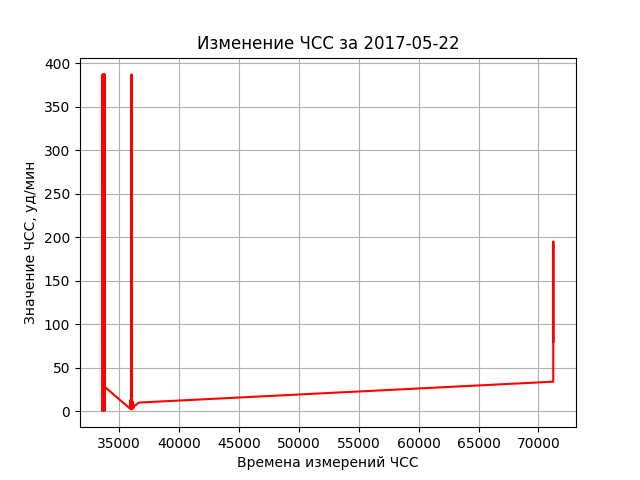
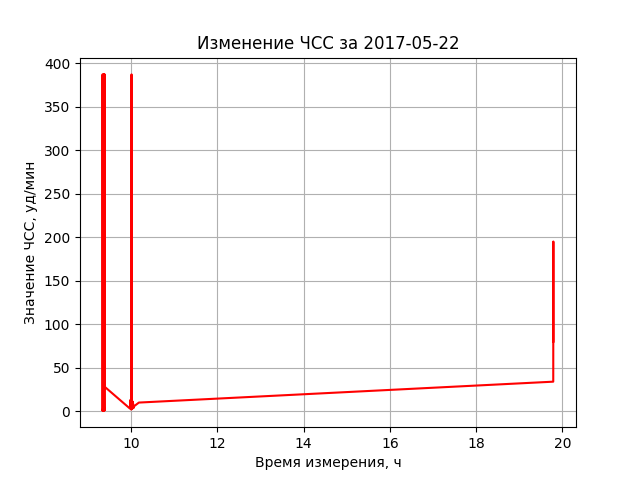
can save daily hr plot

diff --git a/DataB.py b/DataB.py
@@ -1,53 +1,98 @@
 import pymysql
 import datetime
+import time
+import matplotlib.pyplot as plt
+import os
 
 class DataB:
 
-    def __init__(self):
-        self.connection = pymysql.connect(host = "173.230.151.37", port = 3306,  user = "root", passwd = "BMT4Ever", database = "mydb")
-        self.cursor = self.connection.cursor()
+    def __init__(self, host, port, user, pswd, db):
+        self.host = host
+        self.port = port
+        self.user = user
+        self.pswd = pswd
+        self.db = db
+        self.connection = None
+        pass
 
+    def connect_to_db(self):
+        try:
+            self.connection = pymysql.connect(host = self.host, port = self.port, user = self.user, passwd = self.pswd, db = self.db)
+            self.cursor = self.connection.cursor()
+        except pymysql.Error as e:
+            raise e
 
     def select_average_hr(self):
         # получаем среднее сердцебиение
         with self.connection:
             return self.cursor.execute('SELECT AVG(Heart_rate) FROM Telemedicine')
 
-
     def select_average_br(self):
         # получаем среднее дыхание
         with self.connection:
             return self.cursor.execute('SELECT AVG(Breath_rate) FROM Telemedicine')
 
-    def select_average_br(self):
-        # получаем среднее дыхание
-        with self.connection:
-            return self.cursor.execute('SELECT AVG(Breath_rate) FROM Telemedicine')
+    def get_current_data(self):
+        data_to_send = time.strftime('%Y-%m-%d')
+        print(data_to_send)
+        return data_to_send
 
-    def select_day_hr(self):
-         # получаем чсс за день
-        date_input = datetime.date.isoformat(datetime.date.today())
-        query = str('SELECT Heart_rate FROM Telemedicine WHERE date == %s' % date_input)
+    def select_daily(self, what, data_to_send):
+        #what == 'time' or 'heart_rate' or 'breath_rate'
 
-        with self.connection:
-            return self.cursor.execute(query)
+        sql = ("SELECT " + what + " FROM Telemedicine WHERE date=%s")
+        self.cursor.execute(sql, data_to_send)
+        received_data = []
+        for result in self.cursor:
+            received_data.append(result)
+        return received_data
 
-    def select_day_br(self):
-        # получаем чд за день
-        date_input = datetime.date.isoformat(datetime.date.today())
-        query = str('SELECT Breath_rate FROM Telemedicine WHERE date == %s' % date_input)
+    def save_daily_plot(self, times, heart_rates, date):
+        fig = plt.figure()
+        ax = fig.add_subplot(111)
+        ax.plot(times, heart_rates, 'r')
+        ax.grid(True)
+        ax.set_ylabel('Значение ЧСС, уд/мин')
+        ax.set_xlabel('Время измерения, ч')
+        ax.set_title('Изменение ЧСС за ' + date)
+        plt.show()
 
-        with self.connection:
-            return self.cursor.execute(query)
+        if not os.path.exists('daily_plots/'):
+            os.mkdir('daily_plots')
+        plot_name = 'daily_plots/' + date + '.png'
+        fig.savefig(plot_name, fmt='png')
+        return plot_name
 
+    def _make_time(self, timedelta):
+        hours = timedelta.seconds // 3600
+        minutes = (timedelta.seconds - hours * 3600) // 60
+        seconds = timedelta.seconds - hours * 3600 - minutes * 60
+        result = hours + (minutes / 60) + (seconds / 3600)
+        return result
 
+    def make_daily_plot(self):
+        current_data = self.get_current_data()
 
+        #!!!!!!!!!!!!!!!!!
+        current_data = '2017-05-22'
+        #!!!!!!!!!!!!!!!!!!!!
 
-                    #SELECT * FROM
-     #   your_table_name
-     #   WHERE
-      #  your_field_name = "whatever";
+        times = self.select_daily('time', [current_data])
+        for i in range(len(times)):
+            times[i] = self._make_time(times[i][0])
+
+        heart_rates = self.select_daily('heart_rate', [current_data])
+        for i in range(len(heart_rates)):
+            heart_rates[i] = heart_rates[i][0]
+
+        plot_name = self.save_daily_plot(times, heart_rates, current_data)
+        return plot_name
 
     def close(self):
         # Закрываем текущее соединение с БД
         self.connection.close()
+
+
+writer = DataB("173.230.151.37", 3306, "root", "BMT4Ever", "mydb")
+writer.connect_to_db()
+plot_name = writer.make_daily_plot()

diff --git a/bot.py b/bot.py
@@ -50,17 +50,12 @@ def authorization(message):
 
 
 
-
-
-
-
-
 @bot.message_handler(regexp ='Heart_rate|/Heart_rate|Частота сердцебиения|/Частота сердцебиения')
 def hr_request(message):
 
     if message.chat.id in users:
         # Подключаемся к БД
-        db_worker = DB()
+        db_worker = DB("173.230.151.37", 3306, "root", "BMT4Ever", "mydb")
         # Вытягивание из БД среднего ЧСС
         heart_rate = DB.select_average_hr(db_worker)
 
@@ -68,7 +63,8 @@ def hr_request(message):
         bot.send_message(message.chat.id, text = (f'Среднее значение ЧСС за все время измерений = {heart_rate}'))
         # Отсоединяемся от БД
         db_worker.close()
-    else: bot.send_message(message.chat.id, text = "Вы не авторизованы. Для начала авторизуйтесь отправив /auth")
+    else:
+        bot.send_message(message.chat.id, text = "Вы не авторизованы. Для начала авторизуйтесь отправив /auth")
 
 
 
@@ -76,14 +72,15 @@ def hr_request(message):
 def hr_request(message):
     if message.chat.id in users:
         # Подключаемся к БД
-        db_worker = DB()
+        db_worker = DB("173.230.151.37", 3306, "root", "BMT4Ever", "mydb")
         # Вытягивание из БД среднего ЧСС
         breath_rate = DB.select_average_br(db_worker)
         # Отсоединяемся от БД
         db_worker.close()
 
         bot.send_message(message.chat.id, text = (f'Среднее значение ЧД за все время измерений = {breath_rate}'))
-    else: bot.send_message(message.chat.id, text = "Вы не авторизованы. Для начала авторизуйтесь отправив /auth")
+    else:
+        bot.send_message(message.chat.id, text = "Вы не авторизованы. Для начала авторизуйтесь отправив /auth")
 
 
 
@@ -94,13 +91,18 @@ def hr_request(message):
 def day_hr_request(message):
     if message.chat.id in users:
         # Подключаемся к БД
-        db_worker = DB()
-        # Вытягивание из БД среднего ЧСС
-        breath_rate = DB.select_day_hr(db_worker)
+        db_worker = DB("173.230.151.37", 3306, "root", "BMT4Ever", "mydb")
+        # Вытягивание из БД ЧСС за день
+        current_data = db_worker.get_current_data()
+        heart_rates = db_worker.select_daily('heart_rate', [current_data])
+        for i in range(len(heart_rates)):
+            heart_rates[i] = heart_rates[i][0]
+        # breath_rate = DB.select_day_hr(db_worker)
         # Отсоединяемся от БД
         db_worker.close()
-        bot.send_message(message.chat.id, text=(f'массив за день = {breath_rate}'))
-    else: bot.send_message(message.chat.id, text="Вы не авторизованы. Для начала авторизуйтесь отправив /auth")
+        bot.send_message(message.chat.id, text=(f'массив за день = {heart_rates}'))
+    else:
+        bot.send_message(message.chat.id, text="Вы не авторизованы. Для начала авторизуйтесь отправив /auth")
 
 
 

diff --git a/DBwriter_class.py b/DBwriter_class.py
@@ -1,7 +1,4 @@
-import matplotlib.pyplot as plt
 import pymysql
-import time
-import os
 
 
 class DbWriter:
@@ -20,7 +17,6 @@ class DbWriter:
         except pymysql.Error as e:
             raise e
 
-
     def push_to_db(self, result_hr, result_br, device_id, date, time):
         data_to_send = [result_hr, result_br, device_id, date, time]
         try:
@@ -30,51 +26,3 @@ class DbWriter:
             self.myDb.commit()
         except pymysql.Error as e:
             raise e
-
-    def _get_current_data(self):
-        data_to_send = time.strftime('%Y-%m-%d')
-        return data_to_send
-    
-    def select_daily(self, what, data_to_send):
-        #what == 'time' or 'heart_rate'
-        data_to_send = [time.strftime('%Y-%m-%d')]
-        cursor = self.myDb.cursor()
-        sql = ("SELECT " + what + " FROM Telemedicine WHERE date=%s")
-        cursor.execute(sql, data_to_send)
-        received_data = []
-        for result in cursor:
-            received_data.append(result)
-        return received_data
-
-    def save_daily_plot(self, times, heart_rates, date):
-        fig = plt.figure()
-        ax = fig.add_subplot(111)
-        ax.plot(times, heart_rates, 'r')
-        ax.grid(True)
-        ax.set_ylabel('Значение ЧСС, уд/мин')
-        ax.set_xlabel('Времена измерений ЧСС')
-        ax.set_title('Изменение ЧСС за ' + date)
-        # plt.show()
-
-        if not os.path.exists('daily_plots/'):
-            os.mkdir('daily_plots')
-        plot_name = 'daily_plots/' + date + '.png'
-        fig.savefig(plot_name, fmt='png')
-        return plot_name
-    
-    def get_daily_plot(self):
-        current_data = self._get_current_data()
-        times = self.select_daily('time', [current_data])
-        for i in range(len(times)):
-            times[i] = times[i][0].seconds
-
-        heart_rates = self.select_daily('heart_rate', [current_data])
-        for i in range(len(heart_rates)):
-            heart_rates[i] = heart_rates[i][0]
-
-        plot_name = self.save_daily_plot(times, heart_rates, current_data)
-        return plot_name
-        
-writer = DbWriter("173.230.151.37", 3306, "root", "BMT4Ever", "mydb")
-writer.connect_to_db()
-plot_name = writer.get_daily_plot()
